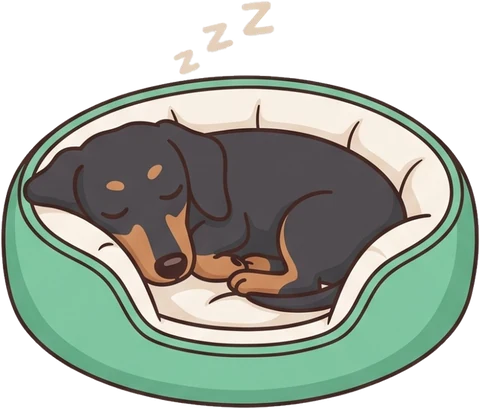
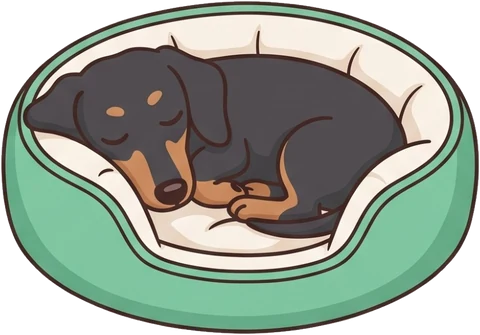
Salchicha dormido: respiración más marcada y z que flotan
Se sacan las z dibujadas de la ilustración y se reemplazan por tres z
animadas que suben y se desvanecen. Con "reducir movimiento" quedan quietas.

Claude-Session: https://claude.ai/code/session_01GkWttyZjA7zsLQtoSzeyMC

diff --git a/src/components/ui/EstadoVacio.jsx b/src/components/ui/EstadoVacio.jsx
@@ -7,10 +7,26 @@ import { C, serif } from '../../lib/styles';
 // Ilustraciones del salchicha para las pantallas vacías.
 const ILUSTRACIONES = { durmiendo, buscando, enviado, banio };
 
+// El salchicha dormido respira y le salen "z" flotando (se apaga con "reducir movimiento";
+// en ese caso las z quedan quietas y visibles).
+function PerroDurmiendo({ tamanio }) {
+  const fs = Math.round(tamanio * 0.16);
+  return (
+    <div aria-hidden="true" style={{position:'relative',width:tamanio,maxWidth:'70%',paddingTop:Math.round(tamanio*0.32),marginBottom:4}}>
+      <img className="respira" src={durmiendo} alt="" style={{display:'block',width:'100%',height:'auto'}} />
+      {[0,1,2].map(i => (
+        <span key={i} className={`zzz zzz-${i+1}`} style={{left:`${24 + i*7}%`,top:`${34 - i*12}%`,fontSize:fs*(0.8 + i*0.25)}}>z</span>
+      ))}
+    </div>
+  );
+}
+
 export default function EstadoVacio({ ilustracion = 'durmiendo', titulo, texto, tamanio = 140, children, style }) {
   return (
     <div style={{display:'flex',flexDirection:'column',alignItems:'center',textAlign:'center',gap:6,padding:'12px 8px',...style}}>
-      <img className={ilustracion === 'durmiendo' ? 'respira' : undefined} src={ILUSTRACIONES[ilustracion]} alt="" width={tamanio} style={{width:tamanio,maxWidth:'70%',height:'auto',marginBottom:4}} />
+      {ilustracion === 'durmiendo'
+        ? <PerroDurmiendo tamanio={tamanio} />
+        : <img src={ILUSTRACIONES[ilustracion]} alt="" width={tamanio} style={{width:tamanio,maxWidth:'70%',height:'auto',marginBottom:4}} />}
       {titulo && <div style={{fontFamily:serif,fontSize:18,fontWeight:600,color:C.tinta,textWrap:'balance'}}>{titulo}</div>}
       {texto && <div style={{fontSize:14,color:C.tintaSuave,lineHeight:1.45,maxWidth:320}}>{texto}</div>}
       {children}

diff --git a/src/components/layout/GlobalStyles.jsx b/src/components/layout/GlobalStyles.jsx
@@ -16,8 +16,11 @@ export default function GlobalStyles() {
       ::-webkit-scrollbar-thumb{background:#d0cece;border-radius:3px}
       button{transition:transform .1s ease-out, background-color .15s, opacity .15s}
       button:active{transform:scale(.97)}
-      @keyframes respirar{0%,100%{transform:scaleY(1)}50%{transform:scaleY(1.02)}}
-      .respira{animation:respirar 3s ease-in-out infinite;transform-origin:50% 100%}
+      @keyframes respirar{0%,100%{transform:scale(1,1)}50%{transform:scale(1.015,1.055)}}
+      .respira{animation:respirar 3.2s ease-in-out infinite;transform-origin:50% 100%}
+      @keyframes zzz{0%{opacity:0;transform:translate(0,0) scale(.55) rotate(-8deg)}15%{opacity:1}70%{opacity:.9}100%{opacity:0;transform:translate(1.1em,-2.4em) scale(1.25) rotate(8deg)}}
+      .zzz{position:absolute;font-family:'Fraunces',Georgia,serif;font-weight:600;color:#9C8763;line-height:1;pointer-events:none;animation:zzz 3.6s ease-out infinite}
+      .zzz-1{animation-delay:0s}.zzz-2{animation-delay:1.2s}.zzz-3{animation-delay:2.4s}
       @media (prefers-reduced-motion: reduce){
         *,*::before,*::after{animation:none!important;transition:none!important}
         button:active{transform:none}

diff --git a/context.md b/context.md
@@ -242,7 +242,7 @@ https://claude.ai/artifact/2TqCWXt7HKh2mirih6uZWy
 - Avatares ilustrados por raza (`src/assets/avatares`, `lib/avatarPerro.js`, `PetAvatar`): caniche, golden,
   salchicha, yorkie/terrier, ovejero; cualquier otra → mestizo. Gatos siguen con 🐱. Reemplazan los emojis.
 - Micro-interacciones: transición al tocar botones (la vibración se probó y se sacó por pedido),
-  el salchicha dormido "respira", y todo se apaga con "reducir movimiento".
+  el salchicha dormido respira (bien visible) con "z" animadas que flotan (se sacaron las z dibujadas de la ilustración), y todo se apaga con "reducir movimiento".
 - /turnos: días en fila deslizable (con cantidad de libres) y los horarios del día elegido abajo.
 - Descartado de Gemini: verde #25D366 con texto blanco en el botón (no pasa contraste); sacar la vista previa
   del mensaje (da confianza de qué se manda).
